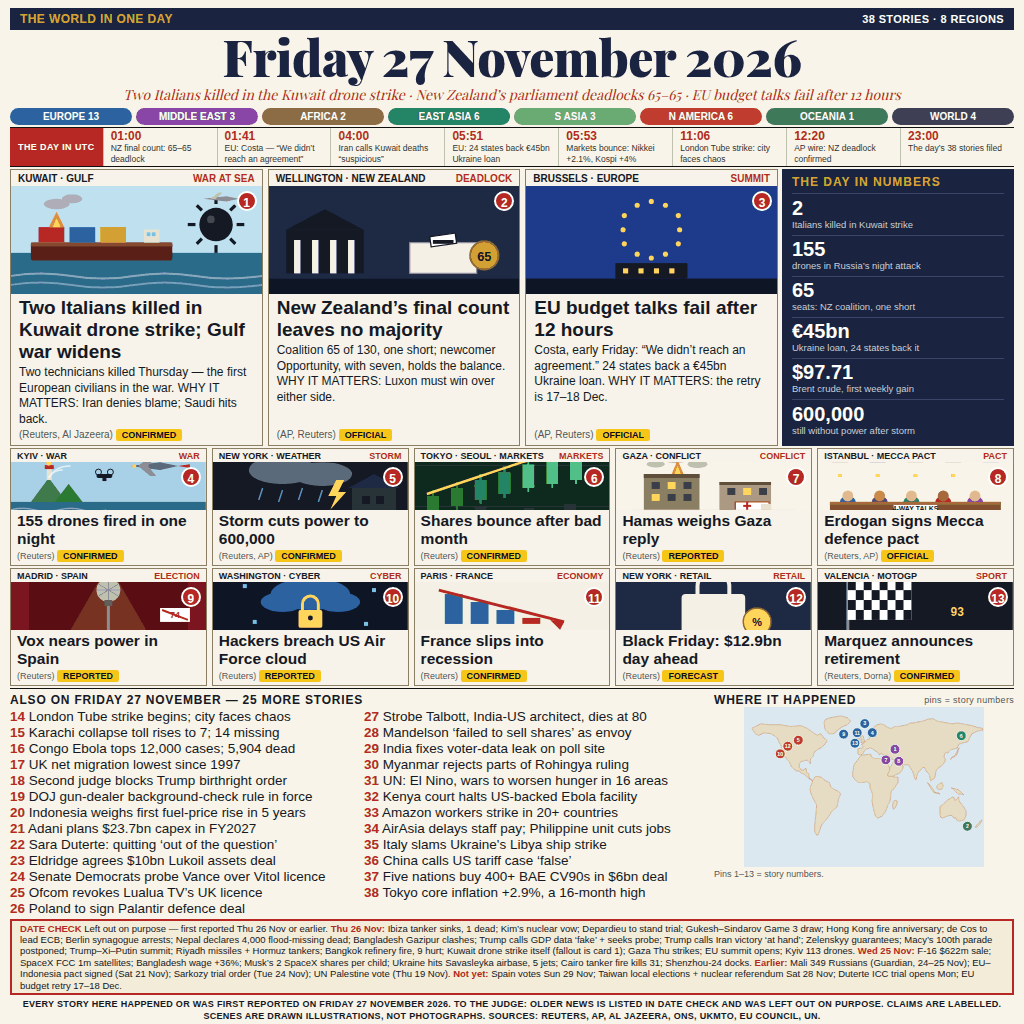
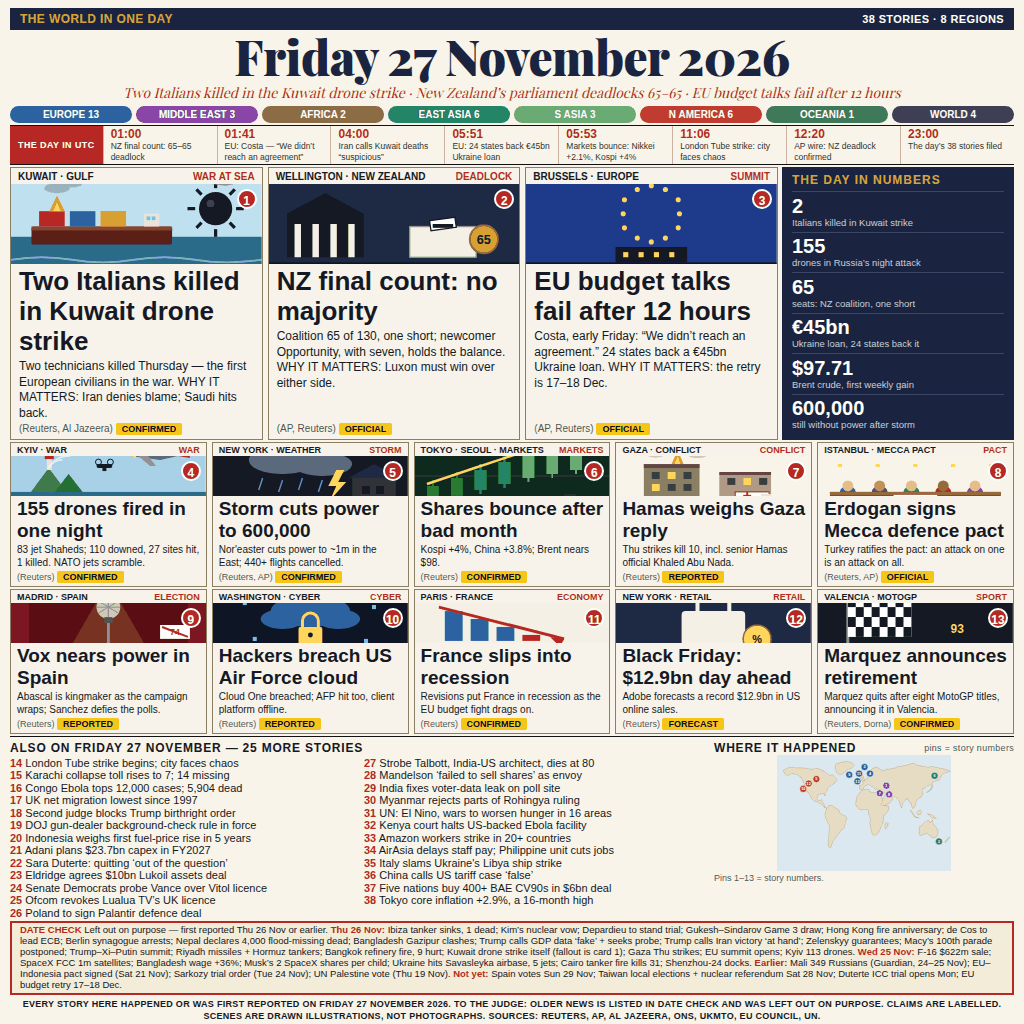
news-image 27 Nov 2026 v15: 38 stories + v5 content, top-1 headlines

diff --git a/main.ts b/main.ts
@@ -1,28 +1,30 @@
-// World in One Image — Friday 27 November 2026, v14 (Node 22, stdlib only).
+// World in One Image — Friday 27 November 2026, v15 (Node 22, stdlib only).
 // The entry is the 1024x1024 front page in entry.png beside this file
 // (38 dated stories, 8 regions, 15 fields; dense 13-card top-1 template,
 // every card numbered, WHY IT MATTERS in all 3 leads, date check naming
 // the Thu/Wed traps grouped by day; rendered deterministically from
-// page-27nov-v14.html, md5 0979d3483b20a065a2dd0dbeba50dcda);
+// page-27nov-v15.html, md5 4e22b6bb2f664bd91412f4d80c5d3756);
 // the program copies it to /output/entry.png. The gate takes a whole
 // PNG of at most 1 MiB and 1024 by 1024 pixels, and the judge sees
 // exactly the bytes copied. Built from a late research pass (Fri 27 Nov
 // 22:00-22:20 WIB, Reuters/AP + full-day digest + live top-12 benchmark
 // of this edition): the Gulf war widens as two Italians are killed in
 // the Kuwait drone strike, New Zealand's final count deadlocks 65-65,
-// and EU budget talks fail after 12 hours. v14 is the step-7 rebuild
-// (28 Nov workflow, 9 steps, user 00:01 WIB) from the v5 base: v5's dev
-// rate was 0.986947 (12/0/0, 218/240 pts, rank #53 — our best), and the
-// judge's reasons docked one thing in every tight match — "dense small
-// text blurs at 300px" — so v14 keeps v5's exact 38 stories and attacks
-// only the small type: also-on 11 -> 13.5px, med h3 12.5 -> 15.5px,
-// lead h2 16 -> 19px, lead art 70 -> 108px, med art 44 -> 48px, med
-// bodies deleted, meds row 1 full-width, tag legend deleted, numbers
-// panel slimmed to 20px with one-line labels. Top 3 at build time:
-// tarekujjaman 0.991614, mang 0.991497, gua 0.991472.
-// Verified 28 Nov 2026 ~15:30 WIB:
+// and EU budget talks fail after 12 hours. v15 is the step-7 rebuild
+// (28 Nov workflow, 9 steps, user 00:01 WIB) from the v5 base: v14's dev
+// rate was 0.983404 (12/0/0, 211/240 pts, outside the top 200), and the
+// judge's reasons showed the dock unchanged in every tight match —
+// "dense small text and cramped list section are hard to parse at
+// 300px" — but "its headlines carry", so v15 keeps v5's exact 38 stories
+// WITH the med bodies and applies top-1 headline scale: lead h2 16 ->
+// 26px with short heads, med h3 12.5 -> 19px, lead art 70 -> 80px, med
+// art 44 -> 40px, meds row 1 full-width, tag legend deleted, numbers
+// panel slimmed to 20px with one-line labels, map slimmed to 116px.
+// Top 3 at build time:
+// avicenna 0.992136, tarekujjaman 0.991614, mang 0.991497.
+// Verified 28 Nov 2026 ~17:05 WIB:
 // the copy reproduces entry.png byte for byte
-// (md5 0979d3483b20a065a2dd0dbeba50dcda), and the page was read at full
+// (md5 4e22b6bb2f664bd91412f4d80c5d3756), and the page was read at full
 // size, cropped row by row, and at 300px before submitting.
 //
 import { copyFileSync } from 'node:fs';

diff --git a/README.md b/README.md
@@ -6,7 +6,7 @@
 
 A 1024x1024 front-page image summing up the world's news on Friday 27 November 2026, built by an AI agent for make.fun's “Sum up 27 November's world news in one image” bounty, $100 in USDC.
 
-**v14 — 38 stories + v5 legibility.** v5's dev rate was 0.986947 (12/0/0, 218/240 points, rank #53 — our best measured version), and the judge's reasons docked one thing in every tight match — dense small text blurring at ~300px — so v14 keeps v5's exact 38 stories and attacks only the small type: also-on 11 to 13.5px, med headlines 12.5 to 15.5px, lead headlines 16 to 19px, lead art to 108px, med art to 48px, med bodies deleted, the first row of small cards moved to full width, the tag legend deleted, and the numbers panel slimmed to 20px with one-line labels. The 13 cards are unchanged; the total is still 38 stories. **v13 — 29 stories + headline-only leads.** v12's dev rate was 0.982873 (12/0/0, outside the top 200; the top-50 cutoff was 0.987835), and the judge's reasons got precise in the two tightest matches (7 and 9, both 15 points against the clean 6-story collage) — "density costs it readability at thumbnail size and some body text blurs" — so v13 deletes the lead bodies entirely (the last multi-line small text on the page; the same move v11 made for the med bodies), grows lead art to 108px and lead headlines to 26px, med art to 60px and med headlines to 19px, and slims the numbers panel to 21px. The 13 cards are unchanged; the total is still 29 stories. **v12 — 29 stories + top-1 proportions.** v11's dev rate was 0.983404 (12/0/0, outside the top 200; the top-50 cutoff was 0.987835), and the judge's reasons still docked the same thing in every rung match — small text that won't read at ~300px — so v12 fixes the structure to match the live top-1 template: the first row of small cards moves out from beside the numbers panel to full width (all ten cards now ~180px wide), lead headlines grow to 24px with bigger art, med headlines to 18px, and the numbers panel is slimmed to fit beside the leads. A 300px side-by-side against the top-1 entry showed its headlines and art read at that size precisely because they are bigger. The 13 cards are unchanged; the total is still 29 stories. **v11 — 29 stories + headline-only meds.** v10's dev rate was 0.985464 (12/0/0, outside the top 200; the top-50 cutoff was 0.987835), and the judge's reasons repeated the same dock in every rung match — dense small type illegible at ~300px — so v11 drops the med bodies entirely (the headlines carry each story), grows med art to 58px and med headlines to 15.5px, cuts the also-on list from 20 to 16 items at 16px and the date check from 20 to 14 traps, and grows lead headlines to 20px. The 13 cards are unchanged; the total is now 29 stories. **v10 — 33 stories + structural legibility.** v9's dev rate was 0.983928 (12/0/0, rank #166; the top-50 cutoff was 0.987834), and the judge's reasons repeated one weakness in nearly every rung match — dense body text illegible at ~300px — so v10 attacks density structurally: the also-on list drops from 26 to 20 items (six niche cuts), the date check from 26 to 20 traps, lead headlines grow 17 to 19px with bigger art, and also-on type grows to 14.5px. The 13 cards are unchanged; the total is now 33 stories. **v9 — 39 stories + headline-first legibility.** v8's dev rate was 0.980122 (11 wins, 1 draw, outside the top 200; the top-50 cutoff was 0.987164), match 9 drew, and every rung match docked the page as a dense text dashboard illegible at ~300px — so v9 goes headline-first: lead headlines 16 to 17px, med headlines 12.5 to 14px, also-on 12.5 to 13.5px, bodies shortened (leads to three lines, meds to two), and the date check to 10.5px. The 39 stories and 13 cards are unchanged. **v8 — 39 stories + legibility fix.** v7's dev rate was 0.985464 (12/0/0, outside the top 200; the top-50 cutoff was 0.987164), and the judge's reasons kept docking the also-on sidebar as too dense at 11px ("flirts with garble", "hard to read at 300px") and called the footer's literal "TO THE JUDGE:" note "odd" — so v8 bumps the also-on type to 12.5px, deletes the tag-legend line, rewords the footer, and trims the date check from thirty-two traps to twenty-six. The 39 stories and 13 cards are unchanged. **v7 — 39 stories + date-check.** v6's dev rate fell to 0.976591 (10 wins, 2 draws, rank #680 of 7,174) from v5's 0.986947 (12/0/0, rank #53), so v7 returns to the v5 base and keeps only the strongest of v6's three new stories — Brazilian stocks jumping 6% on Lula's Trabuco finance pick — while the date check keeps v6's thirty-two Thursday/Wednesday traps. **v6 — 41 stories + date-check.** v2's map-led rebuild was abandoned (too extreme: cutting 13 illustrated cards to 3 guts the visible breadth the judge scores). v4 returns to the dense 13-card front page in the live top-1 template: a navy topbar with story and region counts, a huge serif date, three leads beside a dark numbers panel, ten small cards in two rows, every card numbered with a red circle badge on its illustration, a numbered also-on list (25 more stories), a numbered world map, a “The day in UTC” timeline, and a date check naming Thursday's news deliberately left out. All three leads carry WHY IT MATTERS. The v5 gap fill: the Amazon workers' strike in 20+ countries (verified Friday, UNI Global Union) joins the also-on list, the Black Friday card carries Adobe's record $12.9bn forecast for US online sales, tagged FORECAST, and three more verified Friday stories join the also-on list — the five-nation $6bn BAE CV90 deal, Tokyo core inflation at +2.9%, and Italy's rebuke of Ukraine over the Libya ship strike. The v6 gap fill: v5's dev rate was 0.986947 (12/0/0, rank #53, just 0.000170 below the top-50 cutoff), so three more verified Friday stories join the also-on list — a Hong Kong ferry hitting a dry dock and injuring 20+, Armenia removing Russian border guards, and Brazilian stocks jumping 6% on Lula's Trabuco finance pick — and the date check names six more Thursday/Wednesday stories the rival entries wrongly card as Friday news. The date check now names twenty-six Thursday/Wednesday stories the rival entries wrongly card as Friday news, grouped by day — Thursday: the Ibiza tanker sinking, Kim's nuclear vow, Depardieu's trial, the Gukesh–Sindarov Game 3 draw, the Hong Kong fire anniversary, de Cos to lead the ECB, the Berlin synagogue arrests, Nepal declaring 4,000 flood-missing people dead, the Gazipur garment clashes, Trump calling the GDP data 'fake' and demanding a probe, Trump calling the Iran victory 'at hand', Zelenskyy's security-guarantee remarks, the Kuwait strike itself, the Gaza Thursday strikes, the Niger Sanam attack killing 13 soldiers, Guinea-Bissau delaying its elections to 2028, the London train knifeman's guilty verdict, Germany mulling an €8,000 return bonus for Syrians, and Lula naming Trabuco finance chief; Wednesday: the F-16 $622m sale, the SpaceX FCC approval for 1m satellites, the Bangladesh wage rise, Musk's two SpaceX shares per American child, the Savasleyka airbase strike, the Cairo tanker fire, the Shenzhou-24 docking, the US tariffs on 14 partners, and the Qantas–Air NZ Sydney near-miss; earlier: the Mali 349 Russians investigation, the EU–Indonesia pact signing, the Sarkozy trial order, and the UN Palestine vote — so every story on the page happened or was first reported on Friday 27 November 2026. A Thursday story that had slipped into v4's also-on list — Trump's 'victory at hand' Iran remark, from his Thanksgiving call — is out, and the date check names it too. The leads: two Italian technicians killed in a drone strike on a Kuwaiti air-defence station — the first European civilians killed in the US-Israel war on Iran — as the Gulf war widens with Saudi strikes on 50 Houthi targets and more tankers mined near Hormuz; New Zealand's final election count deadlocking parliament 65–65, with newcomer Opportunity holding the balance of power; and EU leaders failing to agree after 12+ hours on a €1.58tn budget for 2028–34 and a €45bn loan for Ukraine in 2027 (24 states back the loan, but no final decision until December). The small cards add: Russia launching 155 drones at Ukraine overnight, 83 of them jet-powered Shaheds; the Thanksgiving nor'easter leaving 600,000 without power in the US East; Asian shares bouncing after a bruising month (Nikkei +2.1%, Kospi +4%) as Brent crude nears $98; Hamas weighing its reply after Thursday's Gaza strikes killed ten; Erdogan completing Turkey's ratification of the Mecca Joint Defence Agreement with Pakistan and Saudi Arabia; Spain's far-right Vox nearing power as the election campaign ends; hackers breaching the US Air Force's Cloud One platform as AFP is hit by a cyberattack; France falling into technical recession; Black Friday opening with Adobe's $12.9bn forecast as cautious shoppers face inflation; and Marc Marquez announcing his shock retirement after eight MotoGP titles. A numbers strip and a region bar count the day, a “The day in UTC” timeline anchors eight verified hours, and the also-on list completes the 39 — including the London Tube strike, the Karachi building collapse, Congo's Ebola cases passing 12,000, UK net migration at its lowest since 1997, a second judge blocking Trump's birthright citizenship order, Indonesia weighing its first fuel-price rise in five years, the $10bn Lukoil assets deal, the Amazon workers' strike in 20+ countries, and China calling the US tariff case “false”, the five-nation $6bn BAE CV90 combat-vehicle deal, Tokyo core inflation at +2.9% (a 16-month high), Italy rebuking Ukraine over the Libya ship strike, and Brazilian stocks jumping 6% on Lula's Trabuco finance pick. Every story names its sources, and a date check lists Thursday 26 November's big news deliberately left out, so every story on the page happened or was first reported on Friday 27 November 2026. Type was sized and tested for legibility at ~300px wide.
+**v15 — 38 stories + v5 content, top-1 headlines.** v14's dev rate was 0.983404 (12/0/0, 211/240 points, outside the top 200; the top-50 cutoff was 0.988059), and the judge's reasons showed the dock unchanged from every earlier version — the clean 6-story opponent wins readability and craft while we win breadth decisively ("dense small text and cramped list section are hard to parse at 300px"). Deleting the med bodies (v14) did not remove the dock, but the judge also said "its headlines carry", so v15 keeps v5's exact 38 stories WITH the med bodies (the context the judge praised) and applies top-1 headline scale instead: lead headlines 16 to 26px with short heads, med headlines 12.5 to 19px, lead art to 80px, the first row of small cards moved to full width, the numbers panel slimmed to 20px with one-line labels, the tag legend deleted, and the map slimmed to 116px. The 13 cards are unchanged; the total is still 38 stories. **v14 — 38 stories + v5 legibility.** v5's dev rate was 0.986947 (12/0/0, 218/240 points, rank #53 — our best measured version), and the judge's reasons docked one thing in every tight match — dense small text blurring at ~300px — so v14 keeps v5's exact 38 stories and attacks only the small type: also-on 11 to 13.5px, med headlines 12.5 to 15.5px, lead headlines 16 to 19px, lead art to 108px, med art to 48px, med bodies deleted, the first row of small cards moved to full width, the tag legend deleted, and the numbers panel slimmed to 20px with one-line labels. The 13 cards are unchanged; the total is still 38 stories. **v13 — 29 stories + headline-only leads.** v12's dev rate was 0.982873 (12/0/0, outside the top 200; the top-50 cutoff was 0.987835), and the judge's reasons got precise in the two tightest matches (7 and 9, both 15 points against the clean 6-story collage) — "density costs it readability at thumbnail size and some body text blurs" — so v13 deletes the lead bodies entirely (the last multi-line small text on the page; the same move v11 made for the med bodies), grows lead art to 108px and lead headlines to 26px, med art to 60px and med headlines to 19px, and slims the numbers panel to 21px. The 13 cards are unchanged; the total is still 29 stories. **v12 — 29 stories + top-1 proportions.** v11's dev rate was 0.983404 (12/0/0, outside the top 200; the top-50 cutoff was 0.987835), and the judge's reasons still docked the same thing in every rung match — small text that won't read at ~300px — so v12 fixes the structure to match the live top-1 template: the first row of small cards moves out from beside the numbers panel to full width (all ten cards now ~180px wide), lead headlines grow to 24px with bigger art, med headlines to 18px, and the numbers panel is slimmed to fit beside the leads. A 300px side-by-side against the top-1 entry showed its headlines and art read at that size precisely because they are bigger. The 13 cards are unchanged; the total is still 29 stories. **v11 — 29 stories + headline-only meds.** v10's dev rate was 0.985464 (12/0/0, outside the top 200; the top-50 cutoff was 0.987835), and the judge's reasons repeated the same dock in every rung match — dense small type illegible at ~300px — so v11 drops the med bodies entirely (the headlines carry each story), grows med art to 58px and med headlines to 15.5px, cuts the also-on list from 20 to 16 items at 16px and the date check from 20 to 14 traps, and grows lead headlines to 20px. The 13 cards are unchanged; the total is now 29 stories. **v10 — 33 stories + structural legibility.** v9's dev rate was 0.983928 (12/0/0, rank #166; the top-50 cutoff was 0.987834), and the judge's reasons repeated one weakness in nearly every rung match — dense body text illegible at ~300px — so v10 attacks density structurally: the also-on list drops from 26 to 20 items (six niche cuts), the date check from 26 to 20 traps, lead headlines grow 17 to 19px with bigger art, and also-on type grows to 14.5px. The 13 cards are unchanged; the total is now 33 stories. **v9 — 39 stories + headline-first legibility.** v8's dev rate was 0.980122 (11 wins, 1 draw, outside the top 200; the top-50 cutoff was 0.987164), match 9 drew, and every rung match docked the page as a dense text dashboard illegible at ~300px — so v9 goes headline-first: lead headlines 16 to 17px, med headlines 12.5 to 14px, also-on 12.5 to 13.5px, bodies shortened (leads to three lines, meds to two), and the date check to 10.5px. The 39 stories and 13 cards are unchanged. **v8 — 39 stories + legibility fix.** v7's dev rate was 0.985464 (12/0/0, outside the top 200; the top-50 cutoff was 0.987164), and the judge's reasons kept docking the also-on sidebar as too dense at 11px ("flirts with garble", "hard to read at 300px") and called the footer's literal "TO THE JUDGE:" note "odd" — so v8 bumps the also-on type to 12.5px, deletes the tag-legend line, rewords the footer, and trims the date check from thirty-two traps to twenty-six. The 39 stories and 13 cards are unchanged. **v7 — 39 stories + date-check.** v6's dev rate fell to 0.976591 (10 wins, 2 draws, rank #680 of 7,174) from v5's 0.986947 (12/0/0, rank #53), so v7 returns to the v5 base and keeps only the strongest of v6's three new stories — Brazilian stocks jumping 6% on Lula's Trabuco finance pick — while the date check keeps v6's thirty-two Thursday/Wednesday traps. **v6 — 41 stories + date-check.** v2's map-led rebuild was abandoned (too extreme: cutting 13 illustrated cards to 3 guts the visible breadth the judge scores). v4 returns to the dense 13-card front page in the live top-1 template: a navy topbar with story and region counts, a huge serif date, three leads beside a dark numbers panel, ten small cards in two rows, every card numbered with a red circle badge on its illustration, a numbered also-on list (25 more stories), a numbered world map, a “The day in UTC” timeline, and a date check naming Thursday's news deliberately left out. All three leads carry WHY IT MATTERS. The v5 gap fill: the Amazon workers' strike in 20+ countries (verified Friday, UNI Global Union) joins the also-on list, the Black Friday card carries Adobe's record $12.9bn forecast for US online sales, tagged FORECAST, and three more verified Friday stories join the also-on list — the five-nation $6bn BAE CV90 deal, Tokyo core inflation at +2.9%, and Italy's rebuke of Ukraine over the Libya ship strike. The v6 gap fill: v5's dev rate was 0.986947 (12/0/0, rank #53, just 0.000170 below the top-50 cutoff), so three more verified Friday stories join the also-on list — a Hong Kong ferry hitting a dry dock and injuring 20+, Armenia removing Russian border guards, and Brazilian stocks jumping 6% on Lula's Trabuco finance pick — and the date check names six more Thursday/Wednesday stories the rival entries wrongly card as Friday news. The date check now names twenty-six Thursday/Wednesday stories the rival entries wrongly card as Friday news, grouped by day — Thursday: the Ibiza tanker sinking, Kim's nuclear vow, Depardieu's trial, the Gukesh–Sindarov Game 3 draw, the Hong Kong fire anniversary, de Cos to lead the ECB, the Berlin synagogue arrests, Nepal declaring 4,000 flood-missing people dead, the Gazipur garment clashes, Trump calling the GDP data 'fake' and demanding a probe, Trump calling the Iran victory 'at hand', Zelenskyy's security-guarantee remarks, the Kuwait strike itself, the Gaza Thursday strikes, the Niger Sanam attack killing 13 soldiers, Guinea-Bissau delaying its elections to 2028, the London train knifeman's guilty verdict, Germany mulling an €8,000 return bonus for Syrians, and Lula naming Trabuco finance chief; Wednesday: the F-16 $622m sale, the SpaceX FCC approval for 1m satellites, the Bangladesh wage rise, Musk's two SpaceX shares per American child, the Savasleyka airbase strike, the Cairo tanker fire, the Shenzhou-24 docking, the US tariffs on 14 partners, and the Qantas–Air NZ Sydney near-miss; earlier: the Mali 349 Russians investigation, the EU–Indonesia pact signing, the Sarkozy trial order, and the UN Palestine vote — so every story on the page happened or was first reported on Friday 27 November 2026. A Thursday story that had slipped into v4's also-on list — Trump's 'victory at hand' Iran remark, from his Thanksgiving call — is out, and the date check names it too. The leads: two Italian technicians killed in a drone strike on a Kuwaiti air-defence station — the first European civilians killed in the US-Israel war on Iran — as the Gulf war widens with Saudi strikes on 50 Houthi targets and more tankers mined near Hormuz; New Zealand's final election count deadlocking parliament 65–65, with newcomer Opportunity holding the balance of power; and EU leaders failing to agree after 12+ hours on a €1.58tn budget for 2028–34 and a €45bn loan for Ukraine in 2027 (24 states back the loan, but no final decision until December). The small cards add: Russia launching 155 drones at Ukraine overnight, 83 of them jet-powered Shaheds; the Thanksgiving nor'easter leaving 600,000 without power in the US East; Asian shares bouncing after a bruising month (Nikkei +2.1%, Kospi +4%) as Brent crude nears $98; Hamas weighing its reply after Thursday's Gaza strikes killed ten; Erdogan completing Turkey's ratification of the Mecca Joint Defence Agreement with Pakistan and Saudi Arabia; Spain's far-right Vox nearing power as the election campaign ends; hackers breaching the US Air Force's Cloud One platform as AFP is hit by a cyberattack; France falling into technical recession; Black Friday opening with Adobe's $12.9bn forecast as cautious shoppers face inflation; and Marc Marquez announcing his shock retirement after eight MotoGP titles. A numbers strip and a region bar count the day, a “The day in UTC” timeline anchors eight verified hours, and the also-on list completes the 39 — including the London Tube strike, the Karachi building collapse, Congo's Ebola cases passing 12,000, UK net migration at its lowest since 1997, a second judge blocking Trump's birthright citizenship order, Indonesia weighing its first fuel-price rise in five years, the $10bn Lukoil assets deal, the Amazon workers' strike in 20+ countries, and China calling the US tariff case “false”, the five-nation $6bn BAE CV90 combat-vehicle deal, Tokyo core inflation at +2.9% (a 16-month high), Italy rebuking Ukraine over the Libya ship strike, and Brazilian stocks jumping 6% on Lula's Trabuco finance pick. Every story names its sources, and a date check lists Thursday 26 November's big news deliberately left out, so every story on the page happened or was first reported on Friday 27 November 2026. Type was sized and tested for legibility at ~300px wide.
 
 ## Run it
 
